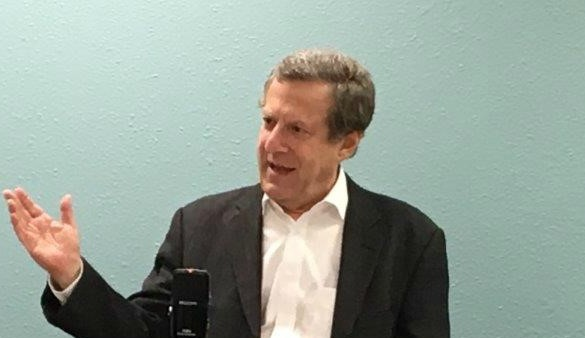
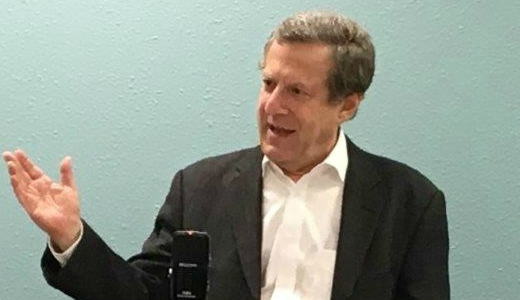
resized photo, minor code cleanup

diff --git a/src/components/footer.js b/src/components/footer.js
@@ -13,11 +13,6 @@ const FooterDiv = styled.div`
   height: 100px;
 `;
 
-const SocialIconList = styled.ul`
-  list-style: none;
-  padding: 0;
-`;
-
 const CustomLinkedin = Linkedin.extend`
   color: ${ColorScheme.secondary};
   padding: 0px 10px 0px 10px;
@@ -58,11 +53,9 @@ class Footer extends Component {
       <FooterDiv>
         <div className="row social" style={{ margin: 0 }}>
           <div className="col-lg-12">
-            <SocialIconList>
-              <a href="mailto:sandykress@gmail.com" target="_blank"><CustomLinkedin size="48" css=""/></a>
-              <a href="http://www.linkedin.com/in/sandykress" target="_blank"><CustomEnvelope size="48"/></a>
-              <a href="https://twitter.com/Kress_Sandy" target="_blank"><CustomTwitter size="48"/></a>
-            </SocialIconList>
+              <a href="mailto:sandykress@gmail.com" target="_blank" rel="noopener noreferrer"><CustomLinkedin size="48"/></a>
+              <a href="http://www.linkedin.com/in/sandykress" target="_blank" rel="noopener noreferrer"><CustomEnvelope size="48"/></a>
+              <a href="https://twitter.com/Kress_Sandy" target="_blank" rel="noopener noreferrer"><CustomTwitter size="48"/></a>
             <br />
           </div>
         </div>

diff --git a/src/theme/globalStyle.js b/src/theme/globalStyle.js
@@ -19,7 +19,6 @@ injectGlobal`
   a {
     text-decoration: none;
     font-weight: bold;
-    color: ${ColorScheme.secondary};
     transition: all .3s ease;
     &:hover {
       text-decoration: none;
@@ -28,29 +27,6 @@ injectGlobal`
     &:focus {
       text-decoration: none;
       color: ${ColorScheme.primary};
-    }
-  }
-  input[type=text], textarea {
-    border-style: groove;
-    border-width: 1px;
-    padding: 1px;
-  }
-  button {
-    padding: 5px 10px;
-    background: 0 0;
-    border: 2px solid ${ColorScheme.secondary};
-    border-radius: 3px;
-    display: block;
-    margin: 0 auto;;
-    color: ${ColorScheme.secondary};
-    font-family: Gotham,Helvetica,Arial,sans-serif;
-    font-weight: 500;
-    text-transform: uppercase;
-    transition: all .3s ease;
-    &:hover {
-      background: ${ColorScheme.primary};
-      color: #fff;
-      border-color: ${ColorScheme.primary};
     }
   }
 `;

diff --git a/src/components/header.js b/src/components/header.js
@@ -10,7 +10,8 @@ import Lifestyle from './lifestyle';
 const Profile = styled.img`
   width: 20em;
   height: 12em;
-  border-radius: 10%;
+  border-radius: 18%;
+  border: 1px solid;
 `;
 
 const TitleBar = styled.h1`
@@ -43,7 +44,7 @@ class Header extends Component {
             <NavLink to='religion'>RELIGION</NavLink>
             <NavLink to='education'>EDUCATION</NavLink>
             <NavLink to='lifestyle'>LIFESTYLE</NavLink>
-            <hr width="50%"/>
+            <hr />
             <Route exact path="/" component={Home} />
             <Route path="/religion" component={Religion} />
             <Route path="/education" component={Education} />

diff --git a/src/App.js b/src/App.js
@@ -3,7 +3,6 @@ import styled from 'styled-components';
 // component imports
 import Header from './components/header.js';
 import Footer from './components/footer.js';
-import Home from './components/Home.js';
 
 const AppDiv = styled.div`
   display: flex;
